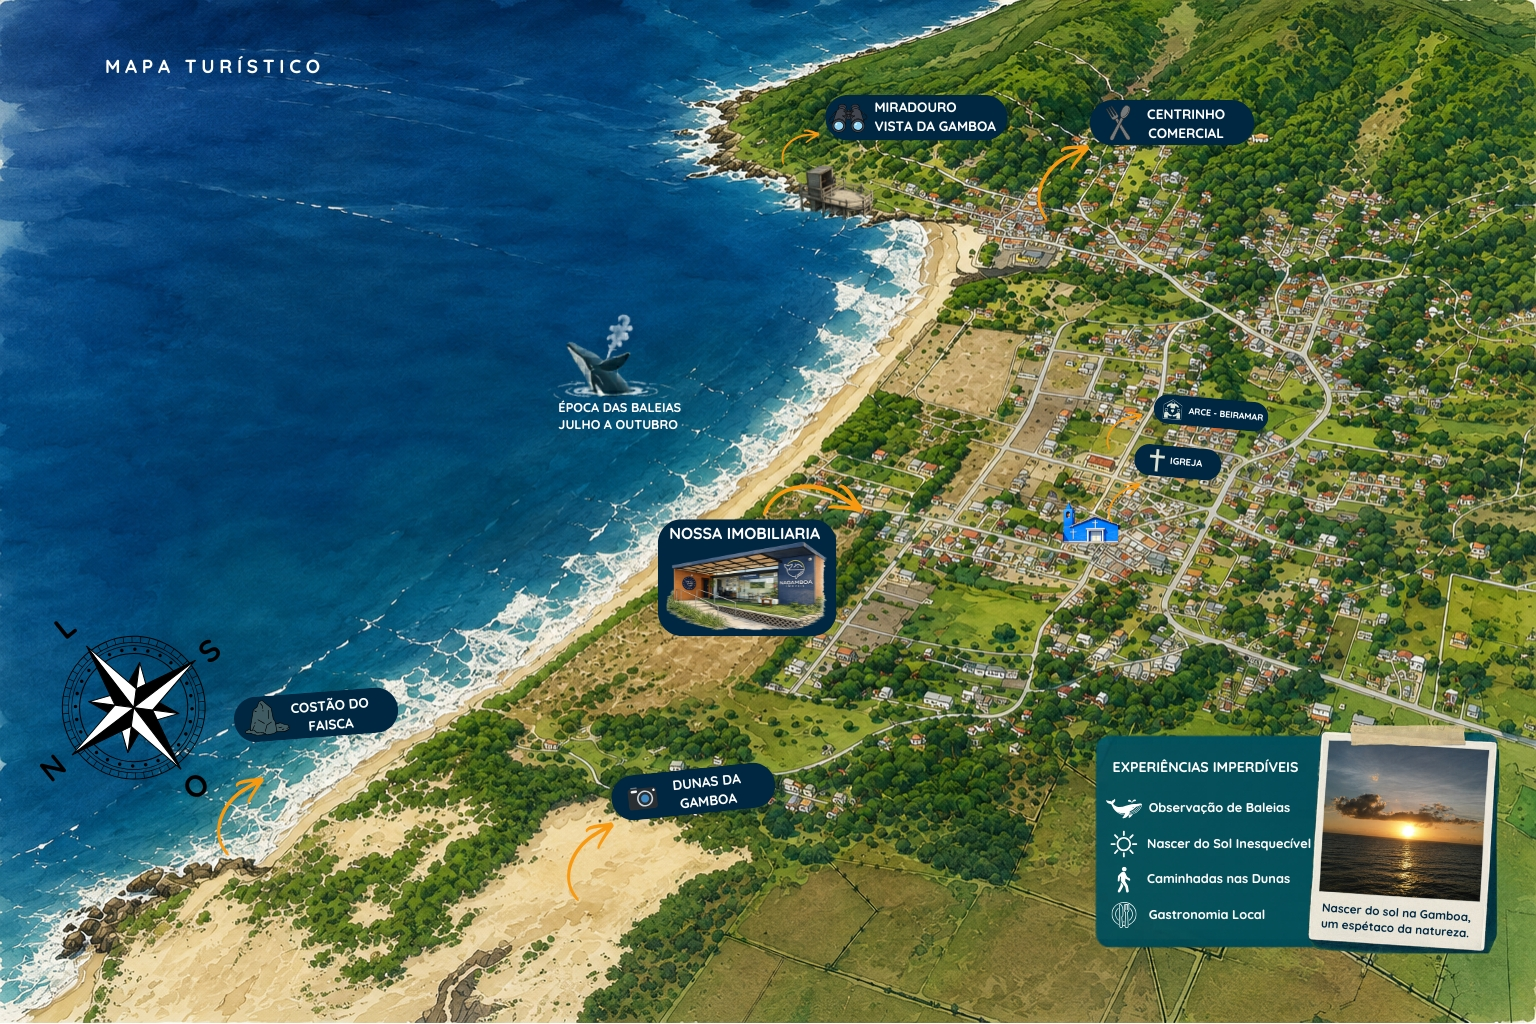
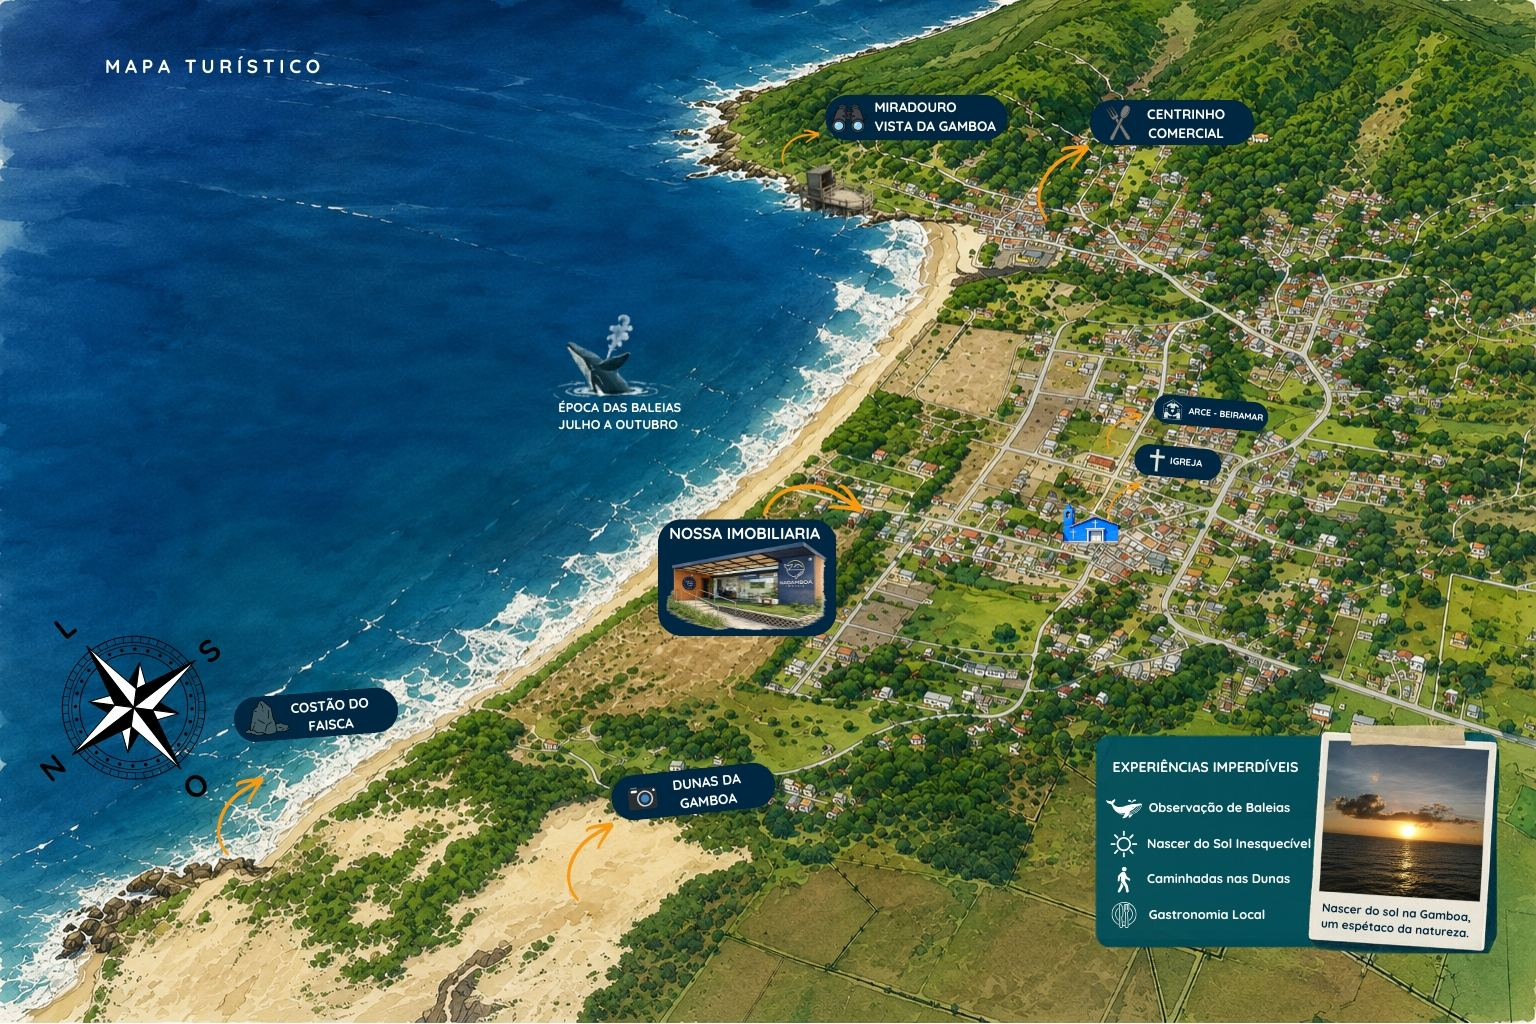
perf: imagens locais compactadas, 20 MB a menos sem mudança visual
- Carrossel da home: de 12 MB (JPG 5472px + PNGs fotográficos) para
  0,9 MB em webp 1920px; eram fundo CSS, fora da otimização do Next
- Cards de região: de ~1,4 MB para 0,65 MB (redimensionados ao uso)
- Hero da página Sobre em webp; mapa turístico recomprimido
- Removido hero-costa.jpg (7,5 MB, não referenciado em lugar nenhum)

diff --git a/src/app/sobre/page.tsx b/src/app/sobre/page.tsx
@@ -36,7 +36,7 @@ export default function SobrePage() {
     <div style={{ background: '#0A1430', minHeight: '100vh', fontFamily: "'Jost',sans-serif", color: '#fff' }}>
       <Header />
 
-      <section style={{ position: 'relative', minHeight: '52vh', display: 'flex', alignItems: 'center', justifyContent: 'center', textAlign: 'center', padding: '80px 48px', overflow: 'hidden', background: 'url(/assets/sobre-hero.jpg) center/cover no-repeat, linear-gradient(160deg,#07112B,#0E1D48 60%,#0B2A3A)' }}>
+      <section style={{ position: 'relative', minHeight: '52vh', display: 'flex', alignItems: 'center', justifyContent: 'center', textAlign: 'center', padding: '80px 48px', overflow: 'hidden', background: 'url(/assets/sobre-hero.webp) center/cover no-repeat, linear-gradient(160deg,#07112B,#0E1D48 60%,#0B2A3A)' }}>
         <div style={{ position: 'absolute', inset: 0, background: 'linear-gradient(180deg, rgba(7,17,43,.62), rgba(7,17,43,.5) 45%, rgba(10,20,48,.86))' }} />
         <div style={{ position: 'absolute', inset: 0, background: 'radial-gradient(ellipse at 70% 20%, rgba(232,178,58,.18), transparent 55%)' }} />
         <div className="grain" />

diff --git a/src/components/HeroCarousel.tsx b/src/components/HeroCarousel.tsx
@@ -4,9 +4,9 @@ import { useEffect, useState } from 'react'
 import { useRouter } from 'next/navigation'
 
 const slides = [
-  { img: '/assets/hero-residencial.png', pos: '50% 42%', anim: 'kb1' },
-  { img: '/assets/hero-ondas.jpg', pos: '50% 45%', anim: 'kb2' },
-  { img: '/assets/hero-baleia.png', pos: '50% 40%', anim: 'kb1' },
+  { img: '/assets/hero-residencial.webp', pos: '50% 42%', anim: 'kb1' },
+  { img: '/assets/hero-ondas.webp', pos: '50% 45%', anim: 'kb2' },
+  { img: '/assets/hero-baleia.webp', pos: '50% 40%', anim: 'kb1' },
 ]
 
 const selectStyle: React.CSSProperties = {
